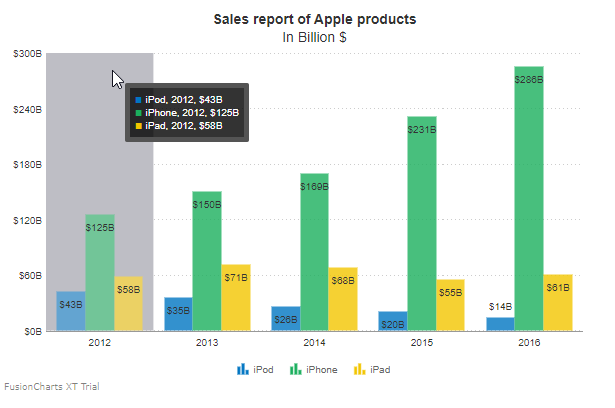
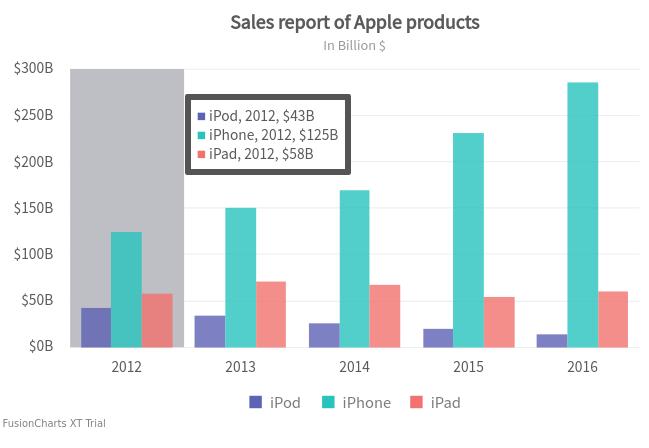
crossline updated

diff --git a/chart-guide/chart-configurations/cross-line.md b/chart-guide/chart-configurations/cross-line.md
@@ -133,7 +133,7 @@ Specify the hex code of the tooltip background color using the `toolTipBgColor` 
 ```json
 {
     "chart": {
-        "toolTipBgColor": "#323232"
+        "toolTipBgColor": "#ffffff"
     }
 }
 ```
